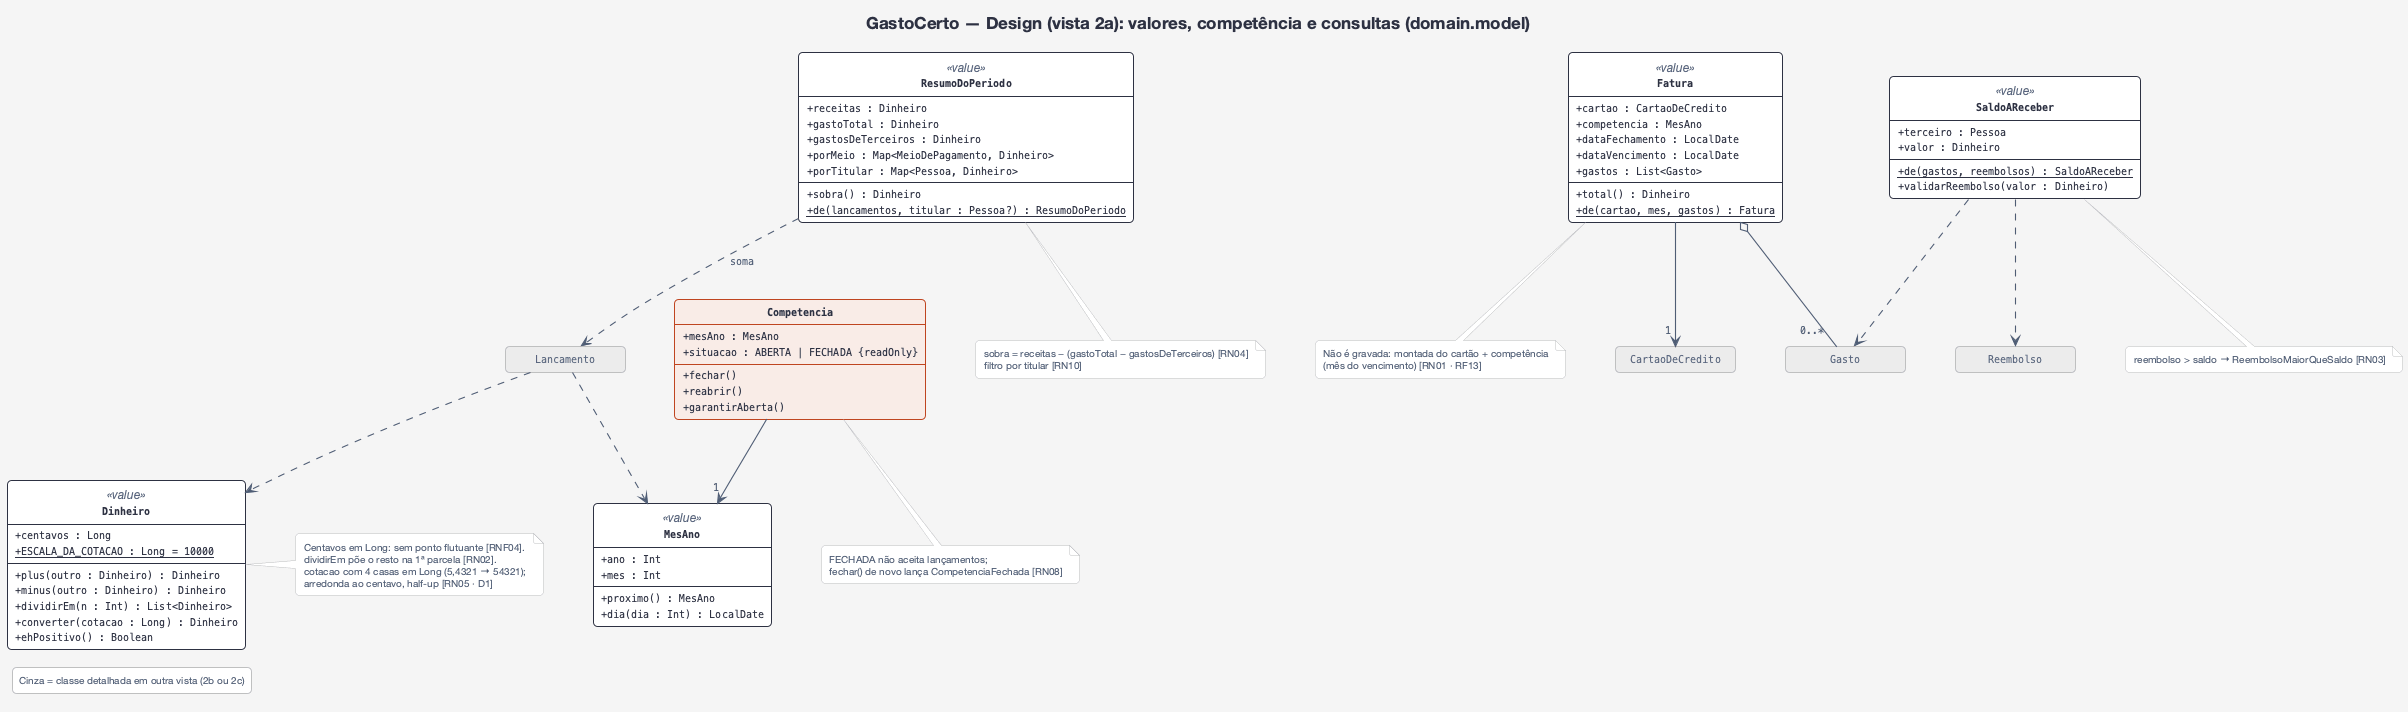
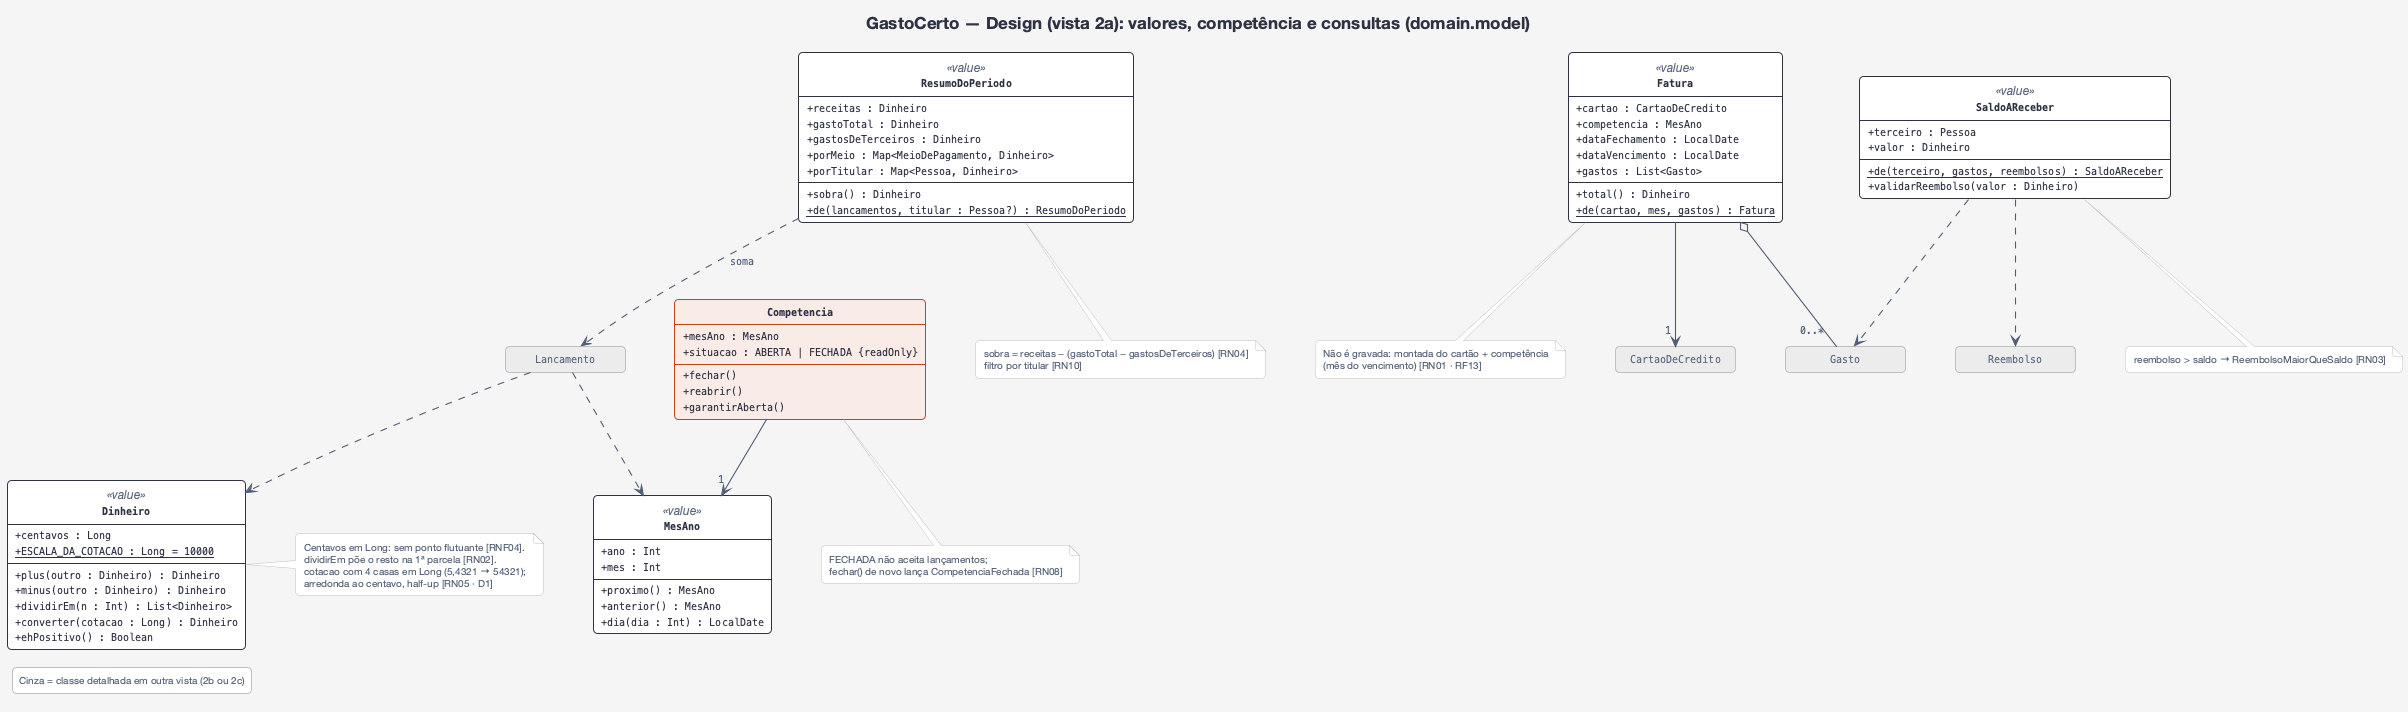
feat(domain): resumo do período com sobra (RN04) e titular (RN10), saldo a receber (RN03) e fatura (RF13)

Changed region(s): [[0.2492, 0.6798, 0.3115, 0.8961], [0.7787, 0.1854, 0.9032, 0.2781]]

diff --git a/shared/src/commonTest/kotlin/br/com/gabriel/gastocerto/domain/model/ResumoDoPeriodoTest.kt b/shared/src/commonTest/kotlin/br/com/gabriel/gastocerto/domain/model/ResumoDoPeriodoTest.kt
@@ -1,0 +1,86 @@
+package br.com.gabriel.gastocerto.domain.model
+
+import kotlinx.datetime.LocalDate
+import kotlin.test.Test
+import kotlin.test.assertEquals
+
+class ResumoDoPeriodoTest {
+
+    private val gabriel = Pessoa("Gabriel", Papel.USUARIO)
+    private val esposa = Pessoa("Esposa", Papel.TITULAR)
+    private val pai = Pessoa("Pai", Papel.TERCEIRO)
+    private val nubankInst = Instituicao("Nubank")
+    private val nubankGabriel = CartaoDeCredito("Nubank Gabriel", gabriel, nubankInst, 5, 12)
+    private val nubankEsposa = CartaoDeCredito("Nubank Esposa", esposa, nubankInst, 20, 27)
+    private val inter = ContaCorrente("Inter", gabriel, Instituicao("Inter"))
+    private val novembro = MesAno(2026, 11)
+    private val dia = LocalDate(2026, 11, 10)
+
+    private fun gasto(valor: Long, meio: MeioDePagamento, terceiro: Pessoa? = null) =
+        Gasto(Dinheiro(valor), dia, "gasto", novembro, meio, terceiro)
+
+    private fun receita(valor: Long) = Receita(Dinheiro(valor), dia, "receita", novembro, TipoDeReceita.SALARIO)
+
+    // Receitas 8.000; gastos 3.000 (sendo 500 do pai) → sobra = 8.000 − (3.000 − 500) = 5.500
+    private val lancamentos = listOf(
+        receita(800_000),
+        gasto(100_000, nubankGabriel),
+        gasto(50_000, nubankGabriel, terceiro = pai),
+        gasto(120_000, nubankEsposa),
+        gasto(30_000, inter),
+    )
+
+    @Test
+    fun `RN04 - sobra desconta so os gastos proprios`() {
+        val resumo = ResumoDoPeriodo.de(lancamentos)
+
+        assertEquals(Dinheiro(800_000), resumo.receitas)
+        assertEquals(Dinheiro(300_000), resumo.gastoTotal)
+        assertEquals(Dinheiro(50_000), resumo.gastosDeTerceiros)
+        assertEquals(Dinheiro(550_000), resumo.sobra())
+    }
+
+    @Test
+    fun `RN04 - gastos maiores que receitas dao sobra negativa`() {
+        val resumo = ResumoDoPeriodo.de(listOf(receita(10_000), gasto(25_000, inter)))
+        assertEquals(Dinheiro(-15_000), resumo.sobra())
+    }
+
+    @Test
+    fun `RN04 - periodo sem lancamentos tem tudo zerado`() {
+        val resumo = ResumoDoPeriodo.de(emptyList())
+        assertEquals(Dinheiro(0), resumo.sobra())
+        assertEquals(emptyMap(), resumo.porMeio)
+    }
+
+    @Test
+    fun `RN03 - gasto de terceiro entra no total do meio e no gasto total`() {
+        val resumo = ResumoDoPeriodo.de(lancamentos)
+        assertEquals(Dinheiro(150_000), resumo.porMeio[nubankGabriel])
+    }
+
+    @Test
+    fun `RN10 - gasto total soma todos os titulares e abre por titular e por meio`() {
+        val resumo = ResumoDoPeriodo.de(lancamentos)
+
+        assertEquals(mapOf(gabriel to Dinheiro(180_000), esposa to Dinheiro(120_000)), resumo.porTitular)
+        assertEquals(3, resumo.porMeio.size)
+        assertEquals(Dinheiro(30_000), resumo.porMeio[inter])
+    }
+
+    @Test
+    fun `RN10 - filtro por titular considera so os gastos dos meios dele`() {
+        val resumo = ResumoDoPeriodo.de(lancamentos, titular = esposa)
+
+        assertEquals(Dinheiro(120_000), resumo.gastoTotal)
+        assertEquals(Dinheiro(0), resumo.gastosDeTerceiros)
+        assertEquals(setOf(nubankEsposa), resumo.porMeio.keys)
+        assertEquals(Dinheiro(800_000), resumo.receitas) // receitas não têm titular
+    }
+
+    @Test
+    fun `RN10 - titular sem meios no periodo tem gasto zero`() {
+        val outro = Pessoa("Outro", Papel.TITULAR)
+        assertEquals(Dinheiro(0), ResumoDoPeriodo.de(lancamentos, titular = outro).gastoTotal)
+    }
+}

diff --git a/shared/src/commonTest/kotlin/br/com/gabriel/gastocerto/domain/model/FaturaTest.kt b/shared/src/commonTest/kotlin/br/com/gabriel/gastocerto/domain/model/FaturaTest.kt
@@ -1,0 +1,63 @@
+package br.com.gabriel.gastocerto.domain.model
+
+import kotlinx.datetime.LocalDate
+import kotlin.test.Test
+import kotlin.test.assertEquals
+
+class FaturaTest {
+
+    private val gabriel = Pessoa("Gabriel", Papel.USUARIO)
+    private val nubankInst = Instituicao("Nubank")
+    // fecha 5, vence 12 (mesmo mês)
+    private val nubank = CartaoDeCredito("Nubank", gabriel, nubankInst, diaFechamento = 5, diaVencimento = 12)
+    // fecha 25, vence 2 (mês seguinte)
+    private val c6 = CartaoDeCredito("C6", gabriel, Instituicao("C6"), diaFechamento = 25, diaVencimento = 2)
+    private val novembro = MesAno(2026, 11)
+
+    private fun gasto(valor: Long, cartao: CartaoDeCredito, competencia: MesAno) =
+        Gasto(Dinheiro(valor), LocalDate(2026, 11, 1), "gasto", competencia, cartao)
+
+    @Test
+    fun `RF13 - fatura soma so os gastos do cartao na competencia`() {
+        val gastos = listOf(
+            gasto(10_000, nubank, novembro),
+            gasto(5_050, nubank, novembro),
+            gasto(7_000, nubank, MesAno(2026, 12)),
+            gasto(9_000, c6, novembro),
+        )
+
+        val fatura = Fatura.de(nubank, novembro, gastos)
+
+        assertEquals(2, fatura.gastos.size)
+        assertEquals(Dinheiro(15_050), fatura.total())
+    }
+
+    @Test
+    fun `RF13 e RN01 - vencimento depois do fechamento fecha e vence no mesmo mes`() {
+        val fatura = Fatura.de(nubank, novembro, emptyList())
+        assertEquals(LocalDate(2026, 11, 5), fatura.dataFechamento)
+        assertEquals(LocalDate(2026, 11, 12), fatura.dataVencimento)
+    }
+
+    @Test
+    fun `RF13 e RN01 - vencimento antes do fechamento fecha no mes anterior`() {
+        val fatura = Fatura.de(c6, MesAno(2027, 1), emptyList())
+        assertEquals(LocalDate(2026, 12, 25), fatura.dataFechamento)
+        assertEquals(LocalDate(2027, 1, 2), fatura.dataVencimento)
+    }
+
+    @Test
+    fun `RF13 - fatura com parcelas da compra parcelada`() {
+        val parcelas = CompraParcelada(Dinheiro(10_000), 3, LocalDate(2026, 11, 3), "TV", nubank).gerarParcelas()
+
+        val dezembro = Fatura.de(nubank, MesAno(2026, 12), parcelas)
+
+        assertEquals(listOf("2/3"), dezembro.gastos.filterIsInstance<Parcela>().map { it.rotulo() })
+        assertEquals(Dinheiro(3_333), dezembro.total())
+    }
+
+    @Test
+    fun `RF13 - fatura sem gastos tem total zero`() {
+        assertEquals(Dinheiro(0), Fatura.de(nubank, novembro, emptyList()).total())
+    }
+}

diff --git a/shared/src/commonTest/kotlin/br/com/gabriel/gastocerto/domain/model/SaldoAReceberTest.kt b/shared/src/commonTest/kotlin/br/com/gabriel/gastocerto/domain/model/SaldoAReceberTest.kt
@@ -1,0 +1,59 @@
+package br.com.gabriel.gastocerto.domain.model
+
+import br.com.gabriel.gastocerto.domain.regra.ReembolsoMaiorQueSaldo
+import br.com.gabriel.gastocerto.domain.regra.ValorInvalido
+import kotlinx.datetime.LocalDate
+import kotlin.test.Test
+import kotlin.test.assertEquals
+import kotlin.test.assertFailsWith
+
+class SaldoAReceberTest {
+
+    private val gabriel = Pessoa("Gabriel", Papel.USUARIO)
+    private val pai = Pessoa("Pai", Papel.TERCEIRO)
+    private val sogra = Pessoa("Sogra", Papel.TERCEIRO)
+    private val cartao = CartaoDeCredito("Nubank", gabriel, Instituicao("Nubank"), 5, 12)
+    private val dia = LocalDate(2026, 11, 10)
+
+    private fun gasto(valor: Long, terceiro: Pessoa?) =
+        Gasto(Dinheiro(valor), dia, "gasto", MesAno(2026, 11), cartao, terceiro)
+
+    private val gastos = listOf(gasto(30_000, pai), gasto(20_000, pai), gasto(10_000, sogra), gasto(99_000, null))
+
+    @Test
+    fun `RN03 - saldo soma os gastos do terceiro e desconta os reembolsos dele`() {
+        val reembolsos = listOf(Reembolso(pai, Dinheiro(15_000), dia), Reembolso(sogra, Dinheiro(10_000), dia))
+
+        val saldo = SaldoAReceber.de(pai, gastos, reembolsos)
+
+        assertEquals(pai, saldo.terceiro)
+        assertEquals(Dinheiro(35_000), saldo.valor)
+    }
+
+    @Test
+    fun `RN03 - reembolso ate o saldo e aceito`() {
+        val saldo = SaldoAReceber.de(pai, gastos, emptyList())
+        saldo.validarReembolso(Dinheiro(50_000)) // igual ao saldo: não lança
+        saldo.validarReembolso(Dinheiro(1))
+    }
+
+    @Test
+    fun `RN03 - reembolso maior que o saldo e rejeitado`() {
+        val saldo = SaldoAReceber.de(sogra, gastos, emptyList())
+        val erro = assertFailsWith<ReembolsoMaiorQueSaldo> { saldo.validarReembolso(Dinheiro(10_001)) }
+        assertEquals("RN03", erro.regra)
+    }
+
+    @Test
+    fun `RN03 - terceiro sem gastos tem saldo zero e nao aceita reembolso`() {
+        val saldo = SaldoAReceber.de(Pessoa("Tio", Papel.TERCEIRO), gastos, emptyList())
+        assertEquals(Dinheiro(0), saldo.valor)
+        assertFailsWith<ReembolsoMaiorQueSaldo> { saldo.validarReembolso(Dinheiro(1)) }
+    }
+
+    @Test
+    fun `RN09 - reembolso com valor zero ou negativo e rejeitado`() {
+        assertFailsWith<ValorInvalido> { Reembolso(pai, Dinheiro(0), dia) }
+        assertFailsWith<ValorInvalido> { Reembolso(pai, Dinheiro(-100), dia) }
+    }
+}

diff --git a/shared/src/commonMain/kotlin/br/com/gabriel/gastocerto/domain/model/ResumoDoPeriodo.kt b/shared/src/commonMain/kotlin/br/com/gabriel/gastocerto/domain/model/ResumoDoPeriodo.kt
@@ -1,0 +1,42 @@
+package br.com.gabriel.gastocerto.domain.model
+
+/**
+ * Totais de um período (semana, mês ou ano) – RF14, RF15.
+ *
+ * - [gastoTotal] soma todos os gastos, inclusive os feitos em nome de terceiros (RN03).
+ * - [gastosDeTerceiros]: parte do gasto total que será devolvida; é descontada na [sobra] (RN03, RN04).
+ * - [porMeio] e [porTitular]: gasto total aberto por meio de pagamento e pelo titular do meio (RN10).
+ * - Reembolso não entra: não é receita (RN03).
+ */
+data class ResumoDoPeriodo(
+    val receitas: Dinheiro,
+    val gastoTotal: Dinheiro,
+    val gastosDeTerceiros: Dinheiro,
+    val porMeio: Map<MeioDePagamento, Dinheiro>,
+    val porTitular: Map<Pessoa, Dinheiro>,
+) {
+    /** RN04 – sobra = receitas − (gasto total − gastos de terceiros). Pode ser negativa. */
+    fun sobra(): Dinheiro = receitas - (gastoTotal - gastosDeTerceiros)
+
+    companion object {
+        /**
+         * Monta o resumo a partir dos [lancamentos] do período (PREVISTOS e REALIZADOS: os previstos
+         * entram pelo valor previsto até serem conferidos).
+         *
+         * RN10 – com [titular], só entram os gastos dos meios desse titular; as receitas não têm
+         * titular e continuam todas (são da família).
+         */
+        fun de(lancamentos: List<Lancamento>, titular: Pessoa? = null): ResumoDoPeriodo {
+            val gastos = lancamentos.filterIsInstance<Gasto>()
+                .filter { titular == null || it.meio.titular == titular }
+            val receitas = lancamentos.filterIsInstance<Receita>()
+            return ResumoDoPeriodo(
+                receitas = receitas.map { it.valor }.somar(),
+                gastoTotal = gastos.map { it.valor }.somar(),
+                gastosDeTerceiros = gastos.filter { it.ehDeTerceiro() }.map { it.valor }.somar(),
+                porMeio = gastos.groupBy { it.meio }.mapValues { (_, doMeio) -> doMeio.map { it.valor }.somar() },
+                porTitular = gastos.groupBy { it.meio.titular }.mapValues { (_, doTitular) -> doTitular.map { it.valor }.somar() },
+            )
+        }
+    }
+}

diff --git a/shared/src/commonMain/kotlin/br/com/gabriel/gastocerto/domain/model/Fatura.kt b/shared/src/commonMain/kotlin/br/com/gabriel/gastocerto/domain/model/Fatura.kt
@@ -1,0 +1,36 @@
+package br.com.gabriel.gastocerto.domain.model
+
+import kotlinx.datetime.LocalDate
+
+/**
+ * RF13 – fatura de um [cartao] na [competencia] (o mês do vencimento, RN01). **Não é gravada**:
+ * é montada a partir do cartão e dos gastos ([de]).
+ */
+data class Fatura(
+    val cartao: CartaoDeCredito,
+    val competencia: MesAno,
+    val dataFechamento: LocalDate,
+    val dataVencimento: LocalDate,
+    val gastos: List<Gasto>,
+) {
+    /** Soma dos gastos e parcelas da fatura. */
+    fun total(): Dinheiro = gastos.map { it.valor }.somar()
+
+    companion object {
+        /**
+         * Monta a fatura do [cartao] que vence em [mes]. Vencimento = dia de vencimento em [mes];
+         * fechamento no mesmo mês se `diaVencimento > diaFechamento`, senão no mês anterior (RN01).
+         * Dia inexistente → último dia do mês. Só entram os gastos desse cartão nessa competência.
+         */
+        fun de(cartao: CartaoDeCredito, mes: MesAno, gastos: List<Gasto>): Fatura {
+            val mesDoFechamento = if (cartao.diaVencimento > cartao.diaFechamento) mes else mes.anterior()
+            return Fatura(
+                cartao = cartao,
+                competencia = mes,
+                dataFechamento = mesDoFechamento.dia(cartao.diaFechamento),
+                dataVencimento = mes.dia(cartao.diaVencimento),
+                gastos = gastos.filter { it.meio == cartao && it.competencia == mes },
+            )
+        }
+    }
+}

diff --git a/shared/src/commonMain/kotlin/br/com/gabriel/gastocerto/domain/model/SaldoAReceber.kt b/shared/src/commonMain/kotlin/br/com/gabriel/gastocerto/domain/model/SaldoAReceber.kt
@@ -1,0 +1,21 @@
+package br.com.gabriel.gastocerto.domain.model
+
+import br.com.gabriel.gastocerto.domain.regra.ReembolsoMaiorQueSaldo
+
+/** RN03 – quanto um [terceiro] ainda deve devolver: gastos em nome dele − reembolsos recebidos. */
+data class SaldoAReceber(val terceiro: Pessoa, val valor: Dinheiro) {
+
+    /** RN03 – lança [ReembolsoMaiorQueSaldo] se o reembolso de [valor] passar do saldo. */
+    fun validarReembolso(valor: Dinheiro) {
+        if (valor.centavos > this.valor.centavos) throw ReembolsoMaiorQueSaldo(valor, this.valor)
+    }
+
+    companion object {
+        /** Calcula o saldo do [terceiro]; gastos e reembolsos de outras pessoas são ignorados. */
+        fun de(terceiro: Pessoa, gastos: List<Gasto>, reembolsos: List<Reembolso>): SaldoAReceber {
+            val devido = gastos.filter { it.terceiro == terceiro }.map { it.valor }.somar()
+            val devolvido = reembolsos.filter { it.terceiro == terceiro }.map { it.valor }.somar()
+            return SaldoAReceber(terceiro, devido - devolvido)
+        }
+    }
+}

diff --git a/shared/src/commonMain/kotlin/br/com/gabriel/gastocerto/domain/model/Reembolso.kt b/shared/src/commonMain/kotlin/br/com/gabriel/gastocerto/domain/model/Reembolso.kt
@@ -1,0 +1,23 @@
+package br.com.gabriel.gastocerto.domain.model
+
+import br.com.gabriel.gastocerto.domain.regra.ValorInvalido
+import kotlinx.datetime.LocalDate
+
+/**
+ * RN03 – valor devolvido por um [terceiro]. Dá baixa no saldo a receber e **não é receita**.
+ * [valor] > 0 (RN09); não pode passar do saldo ([SaldoAReceber.validarReembolso]). Igualdade por [id] (D2).
+ */
+class Reembolso(
+    val terceiro: Pessoa,
+    val valor: Dinheiro,
+    val data: LocalDate,
+    val id: String = novoId(),
+) {
+    init {
+        if (!valor.ehPositivo()) throw ValorInvalido(valor)
+    }
+
+    override fun equals(other: Any?): Boolean = other is Reembolso && other.id == id
+    override fun hashCode(): Int = id.hashCode()
+    override fun toString(): String = "Reembolso(${terceiro.nome}, ${valor.centavos}, $data)"
+}

diff --git a/shared/src/commonMain/kotlin/br/com/gabriel/gastocerto/domain/model/MesAno.kt b/shared/src/commonMain/kotlin/br/com/gabriel/gastocerto/domain/model/MesAno.kt
@@ -18,6 +18,9 @@ data class MesAno(val ano: Int, val mes: Int) {
     /** O mês seguinte (dezembro vira janeiro do ano seguinte). */
     fun proximo(): MesAno = if (mes == 12) MesAno(ano + 1, 1) else MesAno(ano, mes + 1)
 
+    /** O mês anterior (janeiro vira dezembro do ano anterior). Usado na data de fechamento da fatura. */
+    fun anterior(): MesAno = if (mes == 1) MesAno(ano - 1, 12) else MesAno(ano, mes - 1)
+
     /**
      * A data deste mês no [dia] informado. **Dia inexistente no mês vira o último dia do mês**
      * (ex.: dia 31 em fevereiro de 2027 → 28/02/2027), regra usada pelas contas fixas (RN06),

diff --git a/shared/src/commonTest/kotlin/br/com/gabriel/gastocerto/domain/model/MesAnoTest.kt b/shared/src/commonTest/kotlin/br/com/gabriel/gastocerto/domain/model/MesAnoTest.kt
@@ -18,6 +18,12 @@ class MesAnoTest {
     }
 
     @Test
+    fun `anterior volta um mes e de janeiro vai para dezembro do ano anterior`() {
+        assertEquals(MesAno(2026, 10), MesAno(2026, 11).anterior())
+        assertEquals(MesAno(2026, 12), MesAno(2027, 1).anterior())
+    }
+
+    @Test
     fun `mes fora de 1 a 12 e rejeitado`() {
         assertFailsWith<IllegalArgumentException> { MesAno(2026, 0) }
         assertFailsWith<IllegalArgumentException> { MesAno(2026, 13) }

diff --git a/shared/src/commonMain/kotlin/br/com/gabriel/gastocerto/domain/model/Dinheiro.kt b/shared/src/commonMain/kotlin/br/com/gabriel/gastocerto/domain/model/Dinheiro.kt
@@ -61,3 +61,6 @@ value class Dinheiro(val centavos: Long) {
         const val ESCALA_DA_COTACAO: Long = 10_000
     }
 }
+
+/** Soma uma lista de valores (lista vazia = zero). Uso interno do domínio. */
+internal fun Iterable<Dinheiro>.somar(): Dinheiro = fold(Dinheiro(0)) { total, valor -> total + valor }
